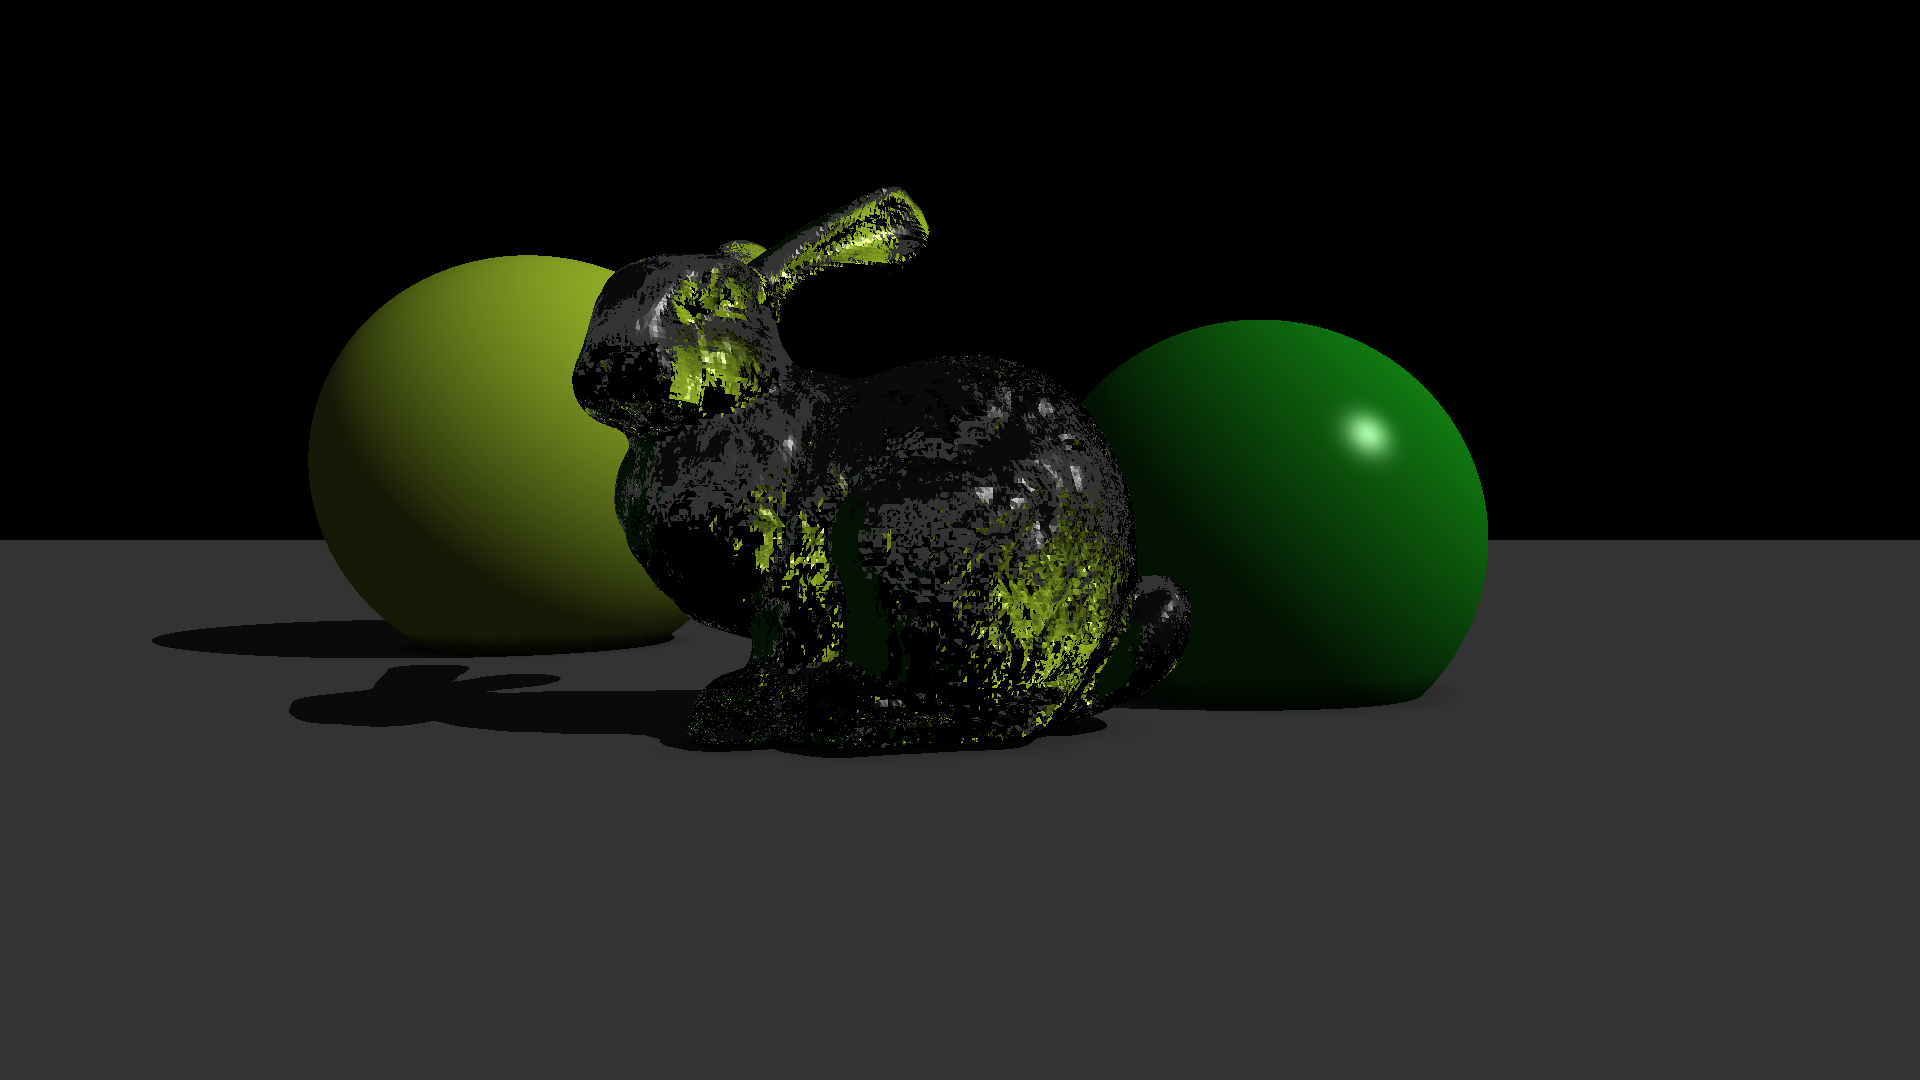
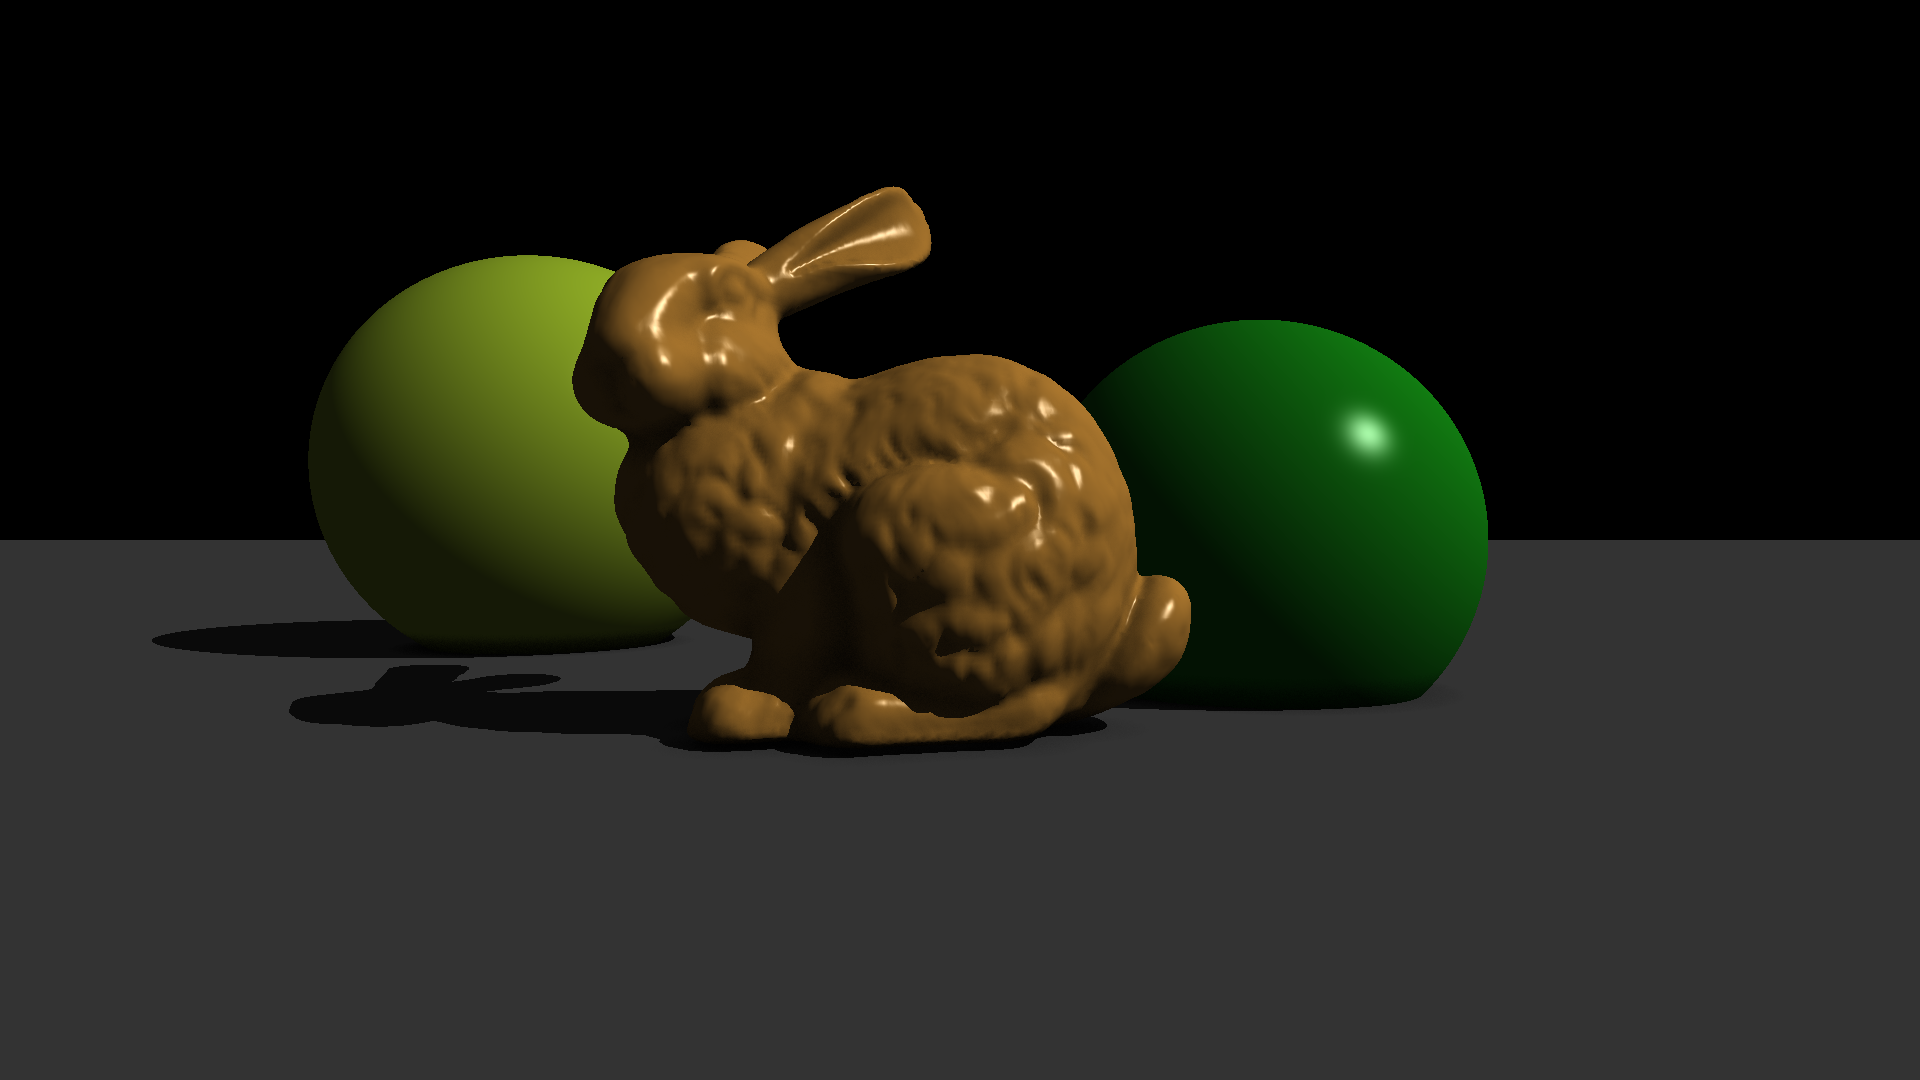
Added vertex normals and fixed dodgy mesh memory

Changed region(s): [[0.2812, 0.1528, 0.625, 0.7028]]

diff --git a/src/mesh.cpp b/src/mesh.cpp
@@ -37,30 +37,58 @@ void Mesh::LoadObjectModel(const char *filename)
             v >> x;
             v >> y;
             v >> z;
-            vertices.push_back(*new Vertex(x, y, z));
+            vertices.push_back(Vertex(x, y, z));
         }
         // check for face
         else if (line.substr(0, 2) == "f ")
         {
             std::istringstream f(line.substr(2));
-            int v1, v2, v3;
-            f >> v1;
-            f >> v2;
-            f >> v3;
-            Face *face = new Face(&vertices[v1 - 1], &vertices[v2 - 1], &vertices[v3 - 1]);
-            faces.push_back(*face);
-            vertices[v2 - 1].faces.push_back(face);
-            vertices[v3 - 1].faces.push_back(face);
-            vertices[v1 - 1].faces.push_back(face);
+            std::string delimiter = "//";
+            std::string s;
+            int v[3];
+            int n[3];
+            bool normals_defined = false;
+
+            for (int i = 0; i < 3; ++i)
+            {
+                f >> s;
+                std::size_t pos = s.find(delimiter);
+                if (pos == std::string::npos)
+                {
+                    v[i] = std::stoi(s);
+                }
+                else
+                {
+                    normals_defined = true;
+                    v[i] = std::stoi(s.substr(0, pos));
+                    n[i] = std::stoi(s.substr(pos + delimiter.length(), s.length()-(pos + delimiter.length())));;
+                }
+            }
+
+            Face face;
+            if (normals_defined)
+            {
+                face = Face(&vertices[v[0] - 1], vertex_normals[n[0] - 1], &vertices[v[1] - 1], vertex_normals[n[1] - 1], &vertices[v[2] - 1], vertex_normals[n[2] - 1]);
+            }
+            else
+            {
+                face = Face(&vertices[v[0] - 1], &vertices[v[1] - 1], &vertices[v[2] - 1]);
+            }
+
+            faces.push_back(face);
+            int face_index = faces.size()-1;
+            vertices[v[1] - 1].faces.push_back(&faces[face_index]);
+            vertices[v[2] - 1].faces.push_back(&faces[face_index]);
+            vertices[v[0] - 1].faces.push_back(&faces[face_index]);
         }
         // check for vertex normal
-        else if (line.substr(0,3) == "vn ")
+        else if (line.substr(0, 3) == "vn ")
         {
-            std::istringstream v(line.substr(3));
+            std::istringstream vn(line.substr(3));
             double x, y, z;
-            v >> x;
-            v >> y;
-            v >> z;
+            vn >> x;
+            vn >> y;
+            vn >> z;
             vertex_normals.push_back({x, y, z});
         }
     }

diff --git a/src/face.cpp b/src/face.cpp
@@ -37,6 +37,21 @@ std::shared_ptr<RayIntersect> Face::Intersect(Ray ray)
 
     if (norm1.DotProduct(norm2) >= 0 && norm1.DotProduct(norm3) >= 0 && norm2.DotProduct(norm3) >= 0)
     {
+        lin_alg::Vector<3> normal;
+        if (use_vertex_normals)
+        {
+            double face_area = lin_alg::Area(vertex_0, vertex_1, vertex_2);
+            double t1 = std::max(0.0, std::min(1.0, lin_alg::Area(vertex_1, intersect_pos, vertex_2) / face_area));
+            double t2 = std::max(0.0, std::min(1.0, lin_alg::Area(vertex_2, intersect_pos, vertex_0) / face_area));
+            double t3 = std::max(0.0, std::min(1.0, 1 - t1 - t2));
+            normal = (normals[0].Scale(t1) + normals[1].Scale(t2) + normals[2].Scale(t3)).Normalise();
+        }
+        else
+        {
+            normal = this->normal;
+        }
+
+        return std::shared_ptr<RayIntersect>(new RayIntersect(ray, face_intersect->t, colour, this, normal));
         return std::shared_ptr<RayIntersect>(new RayIntersect(ray, face_intersect->t, colour, this, normal));
     }
 

diff --git a/src/main.cpp b/src/main.cpp
@@ -226,13 +226,13 @@ std::unique_ptr<Scene> Bunny(unsigned max_thread)
 
     Mesh *mesh = new Mesh();
 
-    mesh->LoadObjectModel(".\\data\\bunny.obj");
+    mesh->LoadObjectModel(".\\data\\bunny_with_normals.obj");
     mesh->AddTranslation(0, -0.16, -2);
     mesh->ExecuteTransformation();
-    //mesh->SetColour(GetColourVector(244, 170, 66));
+    mesh->SetColour(GetColourVector(244, 170, 66));
     mesh->specular_component = 1;
-    mesh->refraction_constant = 1;
-    mesh->refractive_index = 1.5; 
+    // mesh->refraction_constant = 1;
+    // mesh->refractive_index = 1.5; 
 
     DirectionalLight *light = new DirectionalLight({1, 1, 0.5}, 0.6);
 

diff --git a/include/face.h b/include/face.h
@@ -10,6 +10,7 @@ class Face : public SceneObject
 public:
   Face(){};
   Face(Vertex* v1, Vertex* v2, Vertex* v3) : vertices{v1, v2, v3} {CalculateNormal();};
+  Face(Vertex* v1, lin_alg::Vector<3> n1, Vertex* v2, lin_alg::Vector<3> n2, Vertex* v3, lin_alg::Vector<3> n3) : vertices{v1, v2, v3}, normals{n1, n2, n3}, use_vertex_normals(true) {CalculateNormal();};
 
   ~Face(){};
 
@@ -19,7 +20,9 @@ public:
 
   Vertex* vertices[3];
   lin_alg::Vector<3> normal;
+  lin_alg::Vector<3> normals[3];
   lin_alg::Vector<3> colour;
+  bool use_vertex_normals = false;
 };
 
 #endif

diff --git a/src/vector.cpp b/src/vector.cpp
@@ -58,6 +58,11 @@ lin_alg::Vector<3> lin_alg::CrossProduct(const Vector<3> &rhs, const Vector<3> &
     return result;
 };
 
+double lin_alg::Area(const lin_alg::Vector<3> &a, const lin_alg::Vector<3> &b, const lin_alg::Vector<3> &c)
+{
+    return lin_alg::CrossProduct((b - a), (c - a)).Magnitude()/2.0;
+}
+
 template <std::size_t N>
 lin_alg::Vector<3> lin_alg::Vector<N>::GetAsVector3()
 {

diff --git a/include/vector.h b/include/vector.h
@@ -190,6 +190,8 @@ extern Vector<3> CrossProduct(const Vector<3> &rhs, const Vector<3> &lhs);
 
 extern Vector<4> CrossProduct(const Vector<4> &rhs, const Vector<4> &lhs);
 
+extern double Area(const Vector<3> &a, const Vector<3> &b, const Vector<3> &c);
+
 } // namespace lin_alg
 
 #endif
